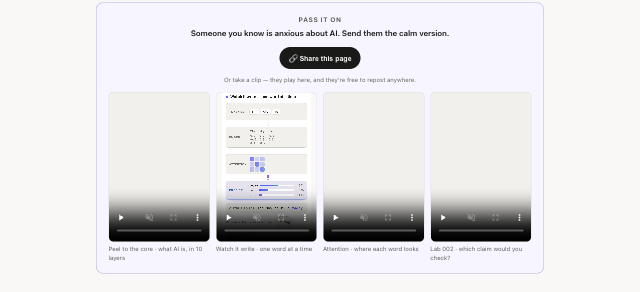
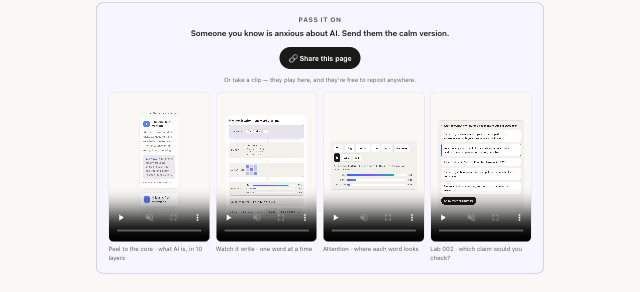
Close the cold audit's remaining findings: real alpha compositing, deterministic capture
The visual harness was diffing its own race. The clip posters are absolute hlur.ai URLs
(they must be, so the GitHub Pages mirror resolves them too), so rendering the local file
fetches them over the network with variable timing - and the references had been recorded
MID-LOAD, with three posters still blank. Every later run then failed against a snapshot
that was never right. It now waits for every img/poster and for document.fonts before
capturing. Two consecutive runs are byte-identical with zero sub-threshold noise, which
also closes the ~0.015% instability the audit flagged as blocking any tighter gate.

bgOf now ACTUALLY composites translucent layers. It kept only the first one and discarded
it on reaching an opaque ancestor: #333 text inside rgba(20,20,20,.9) over a white card
scored 12.63:1 when the truth is 1.11:1 - a false PASS on invisible text. Verified in-page
after the fix: 1.12:1, correctly flagged. Latent before (no translucent layer carried text)
but one chip away from real.

layout.js reports a Chrome spawn failure in its own voice instead of a raw Node stack
trace - spawn emits 'error' asynchronously, outside the try. Verified with a bad path:
"chrome failed to start: spawn /nope/not-chrome ENOENT", exit 1.

verify.js no longer claims small labels are "AA". visual.js measures that at runtime
against real surfaces; a source proxy asserting the same thing kept printing green even if
[…]

diff --git a/visual.js b/visual.js
@@ -108,20 +108,29 @@ const PROBE = `(function(){
   const lum = (px) => { if (!px) return null;
     const f = px.slice(0,3).map(x => { x = x/255; return x <= .03928 ? x/12.92 : Math.pow((x+.055)/1.055, 2.4); });
     return .2126*f[0] + .7152*f[1] + .0722*f[2]; };
-  // walk up compositing translucent layers; bail out if any layer is a gradient/image,
-  // because "the contrast against a gradient" is not one number
-  const bgOf = el => { let p = el, acc = null;
-    while (p && p !== document.documentElement) {
+  // Walk up collecting every background layer, then ACTUALLY composite them. The previous
+  // version kept only the first translucent layer and threw it away on reaching an opaque
+  // ancestor — #333 text inside rgba(20,20,20,.9) over a white card scored 12.63:1 when the
+  // truth is 1.11:1, i.e. a false PASS on invisible text. Latent then (no translucent layer
+  // carried text) but one chip away from real.
+  // Bails out on a gradient: "contrast against a gradient" is not one number.
+  const bgOf = el => {
+    const stack = [];                       // nearest-first
+    for (let p = el; p && p !== document.documentElement; p = p.parentElement) {
       const cs = getComputedStyle(p);
       if (cs.backgroundImage && cs.backgroundImage !== 'none') return { gradient: true };
       const px = rgba(cs.backgroundColor);
-      if (px && px[3] > 0) {
-        acc = acc ? acc : px;
-        if (px[3] >= 0.99) return { px: acc[3] >= 0.99 ? acc : px };
-      }
-      p = p.parentElement;
+      if (px && px[3] > 0) { stack.push(px); if (px[3] >= 0.99) break; }
     }
-    return { px: acc || rgba(getComputedStyle(document.body).backgroundColor) }; };
+    const base = rgba(getComputedStyle(document.body).backgroundColor) || [255,255,255,1];
+    if (!stack.length || stack[stack.length - 1][3] < 0.99) stack.push(base);
+    // composite far -> near: result = a*over + (1-a)*under
+    let out = stack[stack.length - 1].slice(0, 3);
+    for (let i = stack.length - 2; i >= 0; i--) {
+      const a = stack[i][3];
+      out = [0, 1, 2].map(k => stack[i][k] * a + out[k] * (1 - a));
+    }
+    return { px: [out[0], out[1], out[2], 1] }; };
 
   // A1 invisible / low-contrast text
   const faint = [];
@@ -295,7 +304,23 @@ async function main() {
       await send('Emulation.setDeviceMetricsOverride', { width: v.w, height: v.h, deviceScaleFactor: 1, mobile: v.mobile }, sid);
       await send('Emulation.setEmulatedMedia', { features: [{ name: 'prefers-color-scheme', value: v.theme }] }, sid);
       await send('Page.navigate', { url: PAGE_URL }, sid);
-      await sleep(1600);
+      await sleep(1200);
+      // WAIT FOR MEDIA. The clip posters are absolute hlur.ai URLs (they must be, so the
+      // GitHub Pages mirror resolves them too), so rendering the local file fetches them
+      // over the network with variable timing. A reference recorded mid-load froze three
+      // posters blank and then failed every later run — the harness was diffing its own
+      // race, not the page. Fonts too: text reflows when they land.
+      await send('Runtime.evaluate', { expression: `(async function(){
+        const urls = new Set();
+        document.querySelectorAll('img[src]').forEach(i => urls.add(i.src));
+        document.querySelectorAll('video[poster]').forEach(v => urls.add(v.poster));
+        await Promise.all([...urls].map(u => new Promise(res => {
+          const i = new Image(); i.onload = i.onerror = res; i.src = u;
+          setTimeout(res, 8000);                       // never hang the run on a dead asset
+        })));
+        if (document.fonts && document.fonts.ready) await document.fonts.ready;
+      })()`, awaitPromise: true, returnByValue: true }, sid);
+      await sleep(500);
       const { result } = await send('Runtime.evaluate', { expression: PROBE, returnByValue: true }, sid);
       if (result.exceptionDetails) throw new Error('probe threw: ' + JSON.stringify(result.exceptionDetails).slice(0, 200));
       const r = result.result.value;

diff --git a/verify.js b/verify.js
@@ -287,11 +287,16 @@ html.includes('id="quiz"') ? ok('has id="quiz"') : bad('missing id="quiz"');
 // core layer frames AI as an alien intelligence WE grew — and keeps the honest caveat (no "nothing to worry about")
 (/alien kind of intelligence/.test(html) && /we grew from our own writing/.test(html) && /trusted blindly/.test(html))
   ? ok('core layer: alien-intelligence framing kept with its honest caveat') : bad('core layer alien framing / caveat missing');
-// small meaningful labels use SOLID AA colors (2026-07-24 design pass demoted them off the gradient);
-// nothing small may sit on the low-contrast display gradient
-(!/\.gl-cterm \.gt[^}]*var\(--grad\)/.test(html) && !/\.qz-src[^}]*var\(--grad\)/.test(html)
-  && /\.gl-cterm \.gt \{ color: var\(--accent\)/.test(html))
-  ? ok('small labels are solid AA colors (glossary terms = accent, quiz src = tertiary)') : bad('small meaningful text back on a gradient');
+// Small meaningful labels must not sit on the display gradient — contrast against a
+// gradient is not one number, so visual.js SKIPS those elements and can never judge them.
+// That skip is exactly why this check still earns its place. What it must NOT do is
+// claim the labels are "AA": visual.js measures that at runtime against real surfaces,
+// and a source proxy asserting the same thing would keep printing green even after the
+// token behind --accent regressed. Two owners for one fact drift apart; this one now
+// owns only the part visual.js structurally cannot see.
+(!/\.gl-cterm \.gt[^}]*var\(--grad\)/.test(html) && !/\.qz-src[^}]*var\(--grad\)/.test(html))
+  ? ok('no small meaningful text sits on the display gradient (visual.js owns the AA verdict)')
+  : bad('small meaningful text is back on the gradient — visual.js cannot measure contrast there');
 // 2026-07-24 design consolidation locks
 {
   const halfPx = (html.match(/font-size: \d+\.5px/g) || []).length;

diff --git a/layout.js b/layout.js
@@ -16,8 +16,7 @@
      2. TEXT FILL         no long paragraph renders far narrower than the box it
                           sits in — the "capped max-width wastes width" bug
      3. MOBILE FILL       on a phone every text block uses the full column
-     4. NO OVERFLOW       nothing forces sideways scrolling of the page
-     5. STRUCTURE LOCK    container widths and grid column counts are compared to
+     3. STRUCTURE LOCK    container widths and grid column counts are compared to
                           a COMMITTED baseline, so any future edit that changes
                           the desktop-vs-mobile structure fails loudly instead of
                           silently. `--update` rewrites the baseline on purpose,
@@ -157,6 +156,10 @@ async function main() {
 
   const chrome = spawn(CHROME, ['--headless=new', '--remote-debugging-port=' + PORT, '--hide-scrollbars',
     '--no-first-run', '--no-default-browser-check', '--user-data-dir=/tmp/baseline-layout-' + PORT], { stdio: 'ignore' });
+  // spawn emits 'error' ASYNCHRONOUSLY, outside the try — a bad Chrome path died with a raw
+  // Node stack trace instead of this harness's own failure line. Exit code was still 1, so it
+  // failed closed, but not in a voice anyone reading the output would recognise.
+  chrome.on('error', (e) => bad('chrome failed to start: ' + e.message));
   let ws;
   try {
     let ver, tries = 0;
